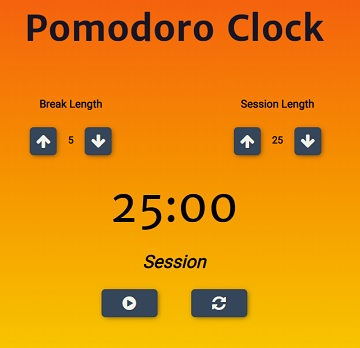
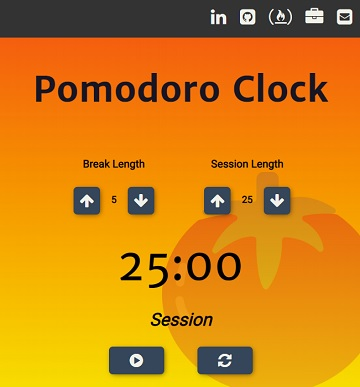
Added new pomodoro clock made with react and redux

diff --git a/index.html b/index.html
@@ -36,6 +36,10 @@
                 class="fa fa-free-code-camp"></i></a>
           </li>
           <li>
+            <a href="https://sonnerz.github.io" title="portfolio" target="blank"><i class="fa fa-briefcase"
+                aria-hidden="true"></i></a>
+          </li>
+          <li>
             <a class="nav-link text-light" href="mailto:sonya.cooley@mail.com" target="_blank" title="email me"><i
                 class="fa fa-envelope-square"></i></a>
           </li>
